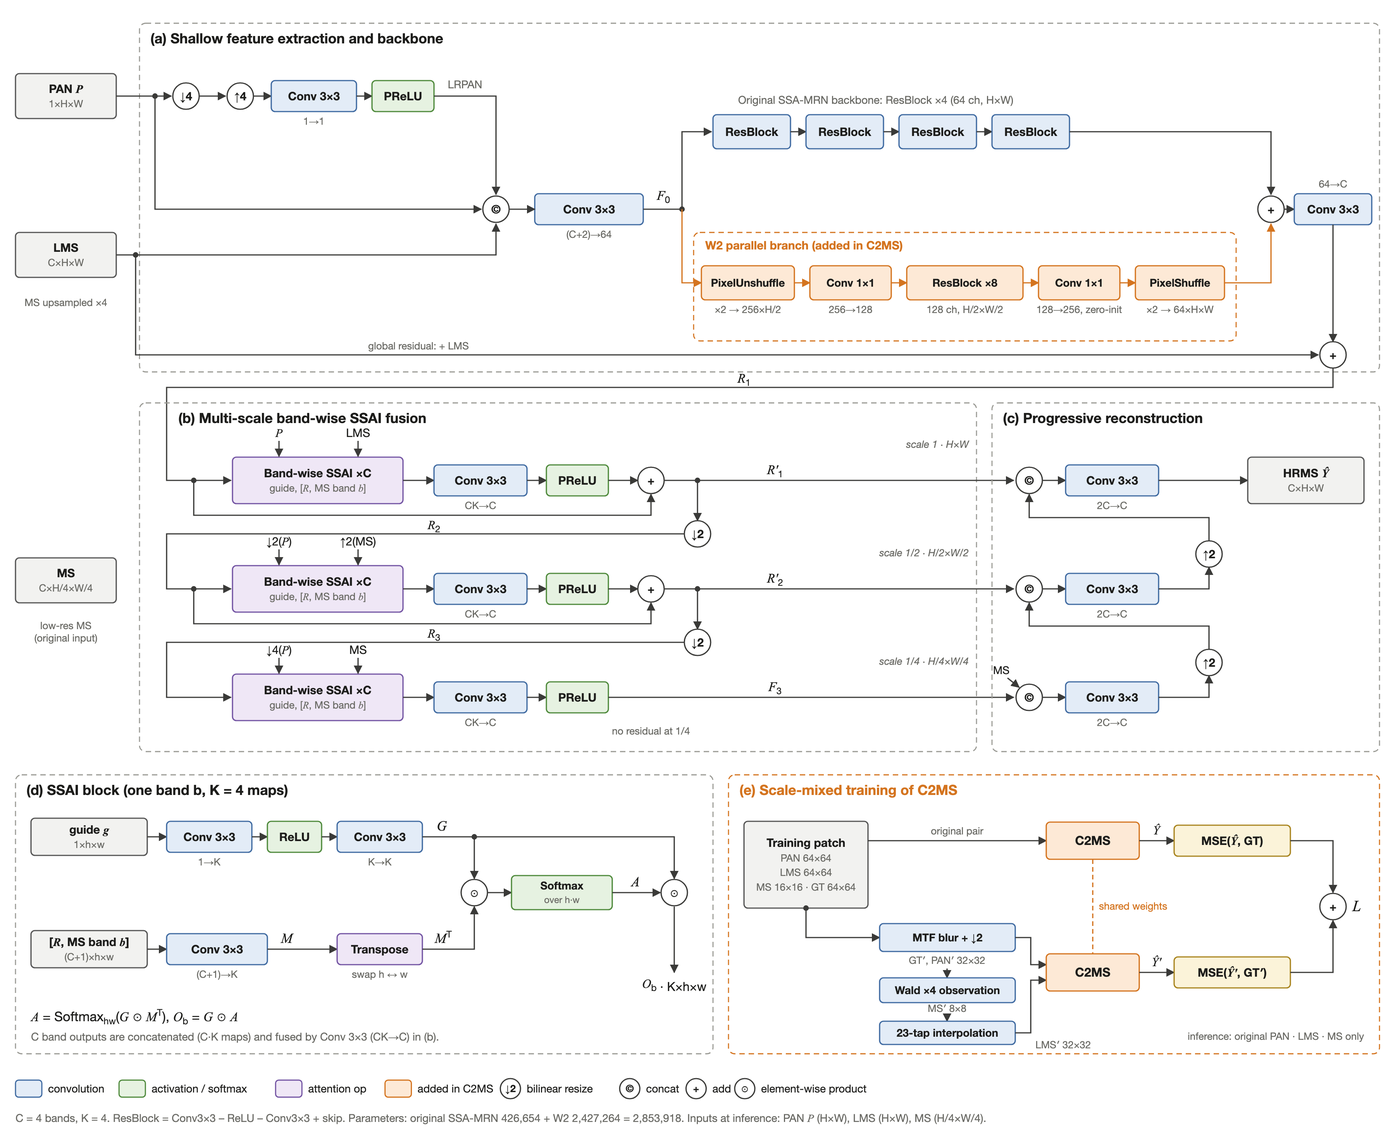
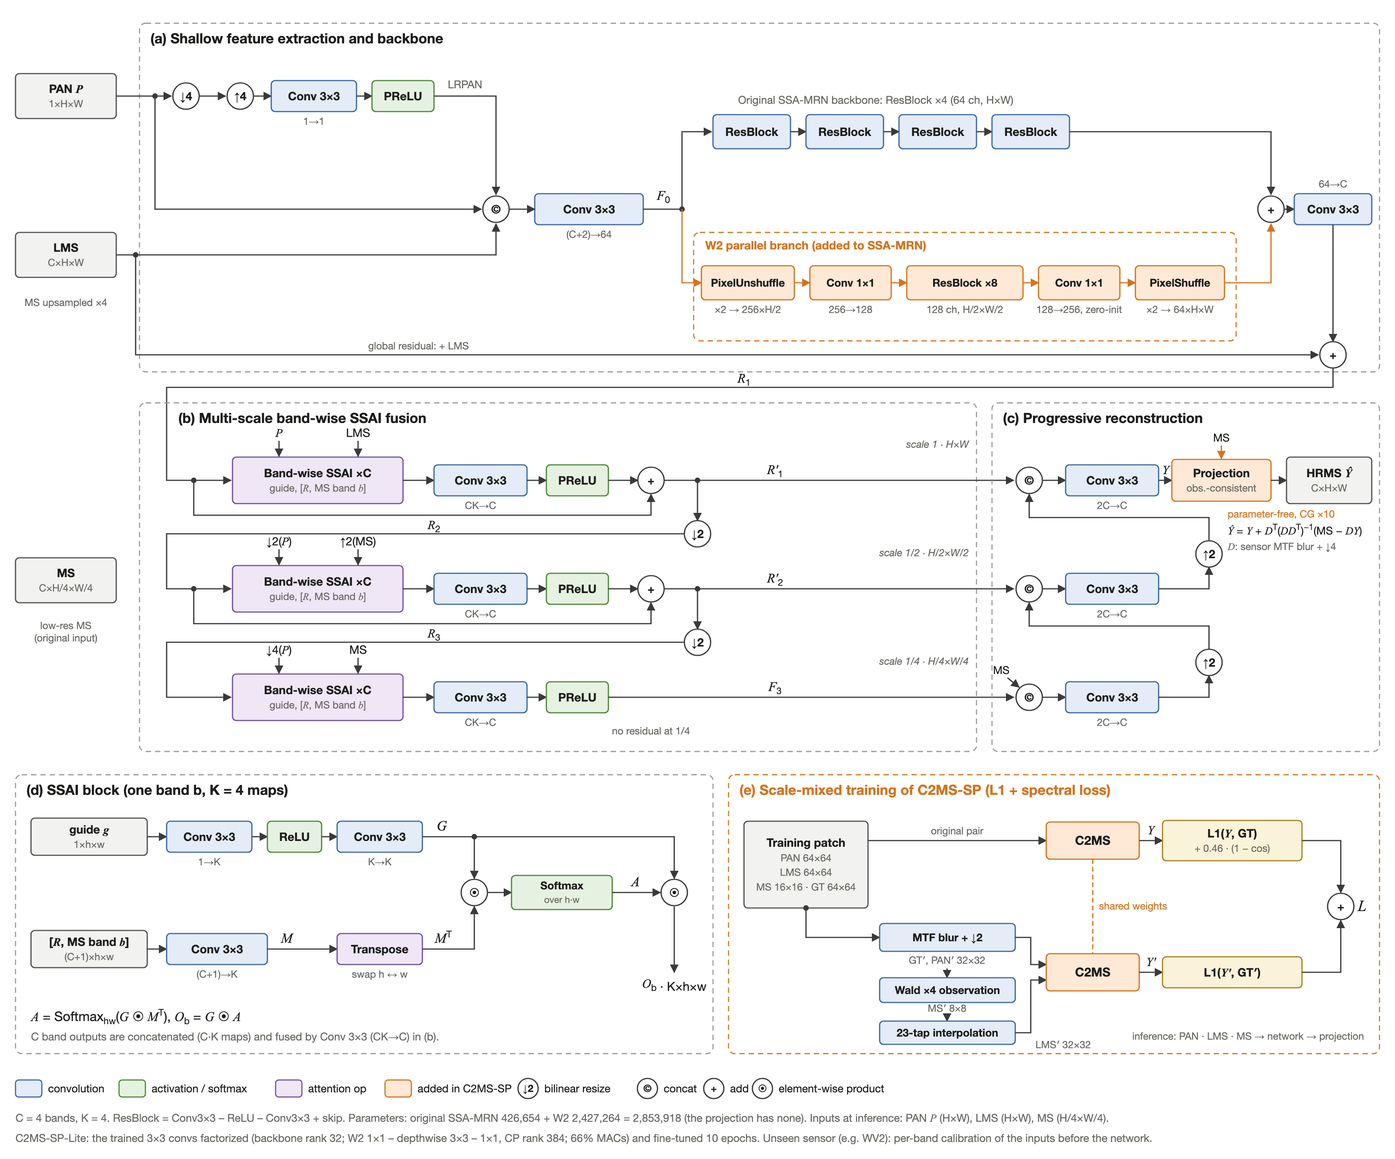
소개 페이지를 기준 모델 C2MS-SP로 갱신
- 기준 모델·주요 수치·구조 설명·발전 과정을 C2MS-SP(경량판 SP-Lite, 미학습 센서 보정 포함) 기준으로 수정
- 구조도와 WV2 비교 그림을 원본·C2MS-SP·C2MS-SP-Lite 기준으로 교체, 결과·비교 표 갱신(Ours 표기)

diff --git a/docs/index.html b/docs/index.html
@@ -4,7 +4,7 @@
 <meta charset="utf-8">
 <meta name="viewport" content="width=device-width, initial-scale=1">
 <title>CtrS — 위성영상 팬샤프닝 연구</title>
-<meta name="description" content="SSA-MRN을 개선한 팬샤프닝 기준 모델 C2MS. 병렬 가지와 축척 혼합 학습으로 QB·GF2·WV3에서 원본보다 높은 성능을 확인하고, 학습하지 않은 센서 WV2에서도 선명도와 색을 더 잘 유지합니다.">
+<meta name="description" content="SSA-MRN을 개선한 팬샤프닝 기준 모델 C2MS-SP. 병렬 가지·축척 혼합 학습·L1·분광 손실·관측 일치 사영으로 QB·GF2·WV3에서 원본보다 높은 성능을 확인하고, 학습하지 않은 센서 WV2에서도 선명도와 색을 유지합니다.">
 <link rel="icon" href="assets/icon.png" type="image/png">
 <link rel="stylesheet" href="https://cdn.jsdelivr.net/gh/orioncactus/pretendard@v1.3.9/dist/web/variable/pretendardvariable-dynamic-subset.min.css">
 <link rel="stylesheet" href="style.css?v=3">
@@ -36,7 +36,7 @@
   <section class="hero">
     <p class="hero-meta">딥러닝 연구 · 위성영상 팬샤프닝 · 동국대학교 종합설계1</p>
     <h1>학습하지 않은 위성 센서에서도 선명도와 색을 유지하는 팬샤프닝 모델</h1>
-    <p class="lead">흑백 고해상도 영상(PAN)과 저해상도 다중분광 영상(MS)을 합쳐 고해상도 컬러 영상을 복원합니다. 오픈소스 모델 SSA-MRN을 재현한 뒤, 구조와 학습 방식을 바꾼 새 기준 모델 <strong>C2MS</strong>로 성능을 개선했습니다.</p>
+    <p class="lead">흑백 고해상도 영상(PAN)과 저해상도 다중분광 영상(MS)을 합쳐 고해상도 컬러 영상을 복원합니다. 오픈소스 모델 SSA-MRN을 재현한 뒤, 구조·학습·추론을 바꾼 기준 모델 <strong>C2MS-SP</strong>와 경량판 <strong>C2MS-SP-Lite</strong>로 성능을 개선했습니다.</p>
     <div class="actions">
       <a class="btn primary" href="https://github.com/BIYONGHIYON/CtrS">GitHub 저장소</a>
       <a class="btn" href="#results">결과 보기</a>
@@ -44,15 +44,15 @@
     <dl class="facts">
       <div><dt>역할</dt><dd>팀장 · 4인</dd></div>
       <div><dt>기간</dt><dd>2026.09 — 현재</dd></div>
-      <div><dt>기준 모델</dt><dd>C2MS (2026.10 채택)</dd></div>
+      <div><dt>기준 모델</dt><dd>C2MS-SP (2026.11 채택)</dd></div>
     </dl>
   </section>
 
   <div class="stats" aria-label="원본 SSA-MRN 대비 주요 결과">
-    <div class="stat"><b>+0.87 dB</b><span>QB RR PSNR · 3시드 평균</span></div>
-    <div class="stat"><b>+2.05 dB</b><span>GF2 RR PSNR · 3시드 평균</span></div>
-    <div class="stat"><b>+1.01 dB</b><span>WV3 RR PSNR · 3시드 평균</span></div>
-    <div class="stat"><b>7.2% → 1.0%</b><span>학습하지 않은 WV2의 색 치우침</span></div>
+    <div class="stat"><b>+0.94 dB</b><span>QB RR PSNR · 3시드 평균</span></div>
+    <div class="stat"><b>+2.24 dB</b><span>GF2 RR PSNR · 3시드 평균</span></div>
+    <div class="stat"><b>+1.14 dB</b><span>WV3 RR PSNR · 3시드 평균</span></div>
+    <div class="stat"><b>7.2% → 0.1%</b><span>학습하지 않은 WV2의 색 치우침</span></div>
   </div>
 
   <section class="section" id="about">
@@ -63,31 +63,37 @@
         <div class="item"><h4>SSA-MRN 재현</h4><p>PAN·LRPAN·LMS에서 특징을 뽑아 전체·절반·1/4 크기에서 밴드별로 융합(SSAI)하고, 작은 크기부터 복원하는 원본 모델을 재현해 비교 기준으로 삼았습니다.</p></div>
         <div class="item"><h4>가설 → 실험 → 판정</h4><p>validation으로 후보를 고르고 실제 test의 RR 지표(PSNR·SAM·ERGAS)로 개선 여부를 판정합니다. 같은 시드의 대조군과 짝지어 비교합니다.</p></div>
         <div class="item"><h4>네 개의 위성 센서</h4><p>QuickBird(QB)·GaoFen-2(GF2)·WorldView-3(WV3)로 학습하고, 학습하지 않은 WorldView-2(WV2)에 적용해 일반화도 확인했습니다.</p></div>
-        <div class="item"><h4>기준 모델 교체 규칙</h4><p>새 후보가 기준 모델이 되려면 3시드 이상에서 개선이 확인되어야 합니다. C2MS도 이 기준을 통과해 채택했습니다.</p></div>
+        <div class="item"><h4>기준 모델 교체 규칙</h4><p>새 후보가 기준 모델이 되려면 3시드 이상에서 개선이 확인되어야 합니다. C2MS(2026.10)와 C2MS-SP(2026.11)도 이 기준을 통과해 차례로 채택했습니다.</p></div>
       </div>
     </div>
   </section>
 
   <section class="section" id="model">
-    <div class="section-head"><h2>기준 모델 C2MS</h2><p>병렬 가지 + 축척 혼합 학습</p></div>
+    <div class="section-head"><h2>기준 모델 C2MS-SP</h2><p>병렬 가지 + 축척 혼합 학습 + L1·분광 손실 + 관측 일치 사영</p></div>
     <div class="section-body">
       <p><strong>입력.</strong> 원본과 같이 고해상도 PAN, 4배 확대한 MS(LMS), 저해상도 MS 세 가지를 받습니다. PAN·LMS·축소 후 재확대한 PAN(LRPAN)에서 초기 특징을 만들고, 전체·1/2·1/4 크기에서 밴드별 SSAI로 PAN의 공간 정보를 주입한 뒤 1/4 크기부터 단계적으로 복원합니다.</p>
-      <p><strong>W2 병렬 가지.</strong> 원본 구조는 그대로 두고, 초기 특징(64채널)에서 갈라져 원본 backbone(ResBlock 4개)과 나란히 흐르는 가지를 더했습니다. 해상도를 절반으로 접고(PixelUnshuffle) 128채널 잔차 블록 8개를 거친 뒤 다시 펼쳐(PixelShuffle) backbone 출력에 더합니다. 마지막 1×1 Conv를 0으로 초기화해 학습 시작 시 출력은 원본과 같습니다. 파라미터는 원본 426,654개에서 2,853,918개로 늘었습니다.</p>
-      <p><strong>축척 혼합 학습.</strong> 병렬 가지만 붙였을 때는 RR PSNR이 크게 올랐지만, 한 단계 더 거친 시험(RR2)에서 성능이 무너졌습니다. 원인을 진단해 보니 축척에 따라 세부를 넣는 세기가 맞지 않았습니다. 그래서 같은 패치로 만든 <strong>2배 거친 학습 쌍</strong>을 원래 학습 쌍과 함께 학습해 이 약점을 없앴습니다. 추론 입력은 원본과 같습니다.</p>
-      <p><strong>채택.</strong> 2026-10-21 QB 3시드(42·43·44) 모두 개선을 확인해 팀 결정으로 채택했고, 다음 날 GF2·WV3·WV2에서도 3시드 모두 원본 대비 개선을 확인했습니다.</p>
+      <p><strong>W2 병렬 가지.</strong> 원본 구조는 그대로 두고, 초기 특징(64채널)에서 갈라져 원본 backbone(ResBlock 4개)과 나란히 흐르는 가지를 더했습니다. 해상도를 절반으로 접고(PixelUnshuffle) 128채널 잔차 블록 8개를 거친 뒤 다시 펼쳐(PixelShuffle) backbone 출력에 더합니다. 파라미터는 원본 426,654개에서 2,853,918개로 늘었습니다.</p>
+      <p><strong>축척 혼합 학습.</strong> 병렬 가지만 붙였을 때는 한 단계 더 거친 시험(RR2)에서 성능이 무너졌습니다. 원인은 축척에 따라 세부를 넣는 세기가 맞지 않는 것이었고, 같은 패치로 만든 <strong>2배 거친 학습 쌍</strong>을 함께 학습해 이 약점을 없앴습니다. 여기까지가 이전 기준 모델 C2MS입니다.</p>
+      <p><strong>L1·분광 손실.</strong> 손실을 제곱 오차에서 <strong>L1 + 분광 손실</strong>(픽셀별 색 방향 차이)로 바꿔 색(SAM)을 더 정확하게 학습했습니다.</p>
+      <p><strong>관측 일치 사영.</strong> 출력을 다시 흐리게 줄였을 때 입력 MS와 정확히 같아지도록, 그 조건을 만족하는 가장 가까운 영상으로 옮기는 단계를 추론 뒤에 붙였습니다. 파라미터가 없고 공액 기울기법 10회면 충분합니다. 답을 검산해서 어긋난 부분만 고치는 것과 같습니다.</p>
+      <p><strong>경량판 C2MS-SP-Lite.</strong> 학습된 C2MS-SP 가중치의 3×3 합성곱을 작은 조각(backbone 랭크 32, W2 가지 1×1 · depthwise 3×3 · 1×1)으로 분해하고 10에폭만 다시 다듬었습니다. 연산 66%·파라미터 68%로 C2MS-SP와 0.01-0.03 dB 차이입니다.</p>
+      <p><strong>학습하지 않은 센서.</strong> 위성마다 밴드별 밝기 기준이 달라, 처음 보는 센서에서는 세부를 덜 넣고 흐려졌습니다. 입력 밴드의 밝기 비율을 학습 센서에 맞추는 <strong>밴드별 센서 보정</strong>으로 재학습 없이 해결했습니다. 학습한 센서에는 쓰지 않습니다.</p>
+      <p><strong>채택.</strong> 2026-11-14 QB·GF2·WV3 모두 3시드(42·43·44)에서 이전 기준 C2MS보다 RR 세 지표가 좋아(PSNR +0.07·+0.19·+0.13 dB) 기준 모델로 채택했습니다.</p>
       <figure class="structure-figure">
-        <a href="assets/c2ms-structure.png?v=2" target="_blank" rel="noopener"><img class="frame" src="assets/c2ms-structure.png?v=2" alt="C2MS 전체 구조도: (a) PAN·LMS·LRPAN 초기 특징과 원본 ResBlock×4 backbone, 그 옆의 W2 병렬 가지(PixelUnshuffle·1×1 Conv·ResBlock×8·1×1 Conv·PixelShuffle), (b) 전체·1/2·1/4 크기의 밴드별 SSAI 융합, (c) 1/4 크기부터의 단계적 복원, (d) SSAI 블록 내부, (e) 2배 거친 학습 쌍을 섞은 축척 혼합 학습" width="3600" height="2940" loading="lazy"></a>
-        <figcaption>C2MS 구조. 주황색이 원본 SSA-MRN에 더한 W2 병렬 가지와 학습 방법입니다. 이미지를 누르면 원본 크기로 볼 수 있습니다.</figcaption>
+        <a href="assets/c2ms-structure.png?v=3" target="_blank" rel="noopener"><img class="frame" src="assets/c2ms-structure.png?v=3" alt="C2MS-SP 전체 구조도: (a) PAN·LMS·LRPAN 초기 특징과 원본 ResBlock×4 backbone, 그 옆의 W2 병렬 가지, (b) 전체·1/2·1/4 크기의 밴드별 SSAI 융합, (c) 단계적 복원과 출력 뒤 관측 일치 사영, (d) SSAI 블록 내부, (e) L1·분광 손실을 쓰는 축척 혼합 학습" width="3600" height="2992" loading="lazy"></a>
+        <figcaption>C2MS-SP 구조. 주황색이 원본 SSA-MRN에 더한 부분(W2 병렬 가지, 관측 일치 사영, 학습 방법)입니다. 이미지를 누르면 원본 크기로 볼 수 있습니다.</figcaption>
       </figure>
 
-      <h3>C2MS까지의 과정</h3>
+      <h3>C2MS-SP까지의 과정</h3>
       <ol class="history">
         <li><span class="n">단계 0</span><div><b>원본 SSA-MRN 재현</b><span>K=4를 연구 기본값으로 확정하고, 이후 모든 비교의 출발점으로 삼았습니다.</span></div></li>
         <li><span class="n">단계 1</span><div><b>저해상도 병렬 가지 W2 추가</b><span>RR PSNR +0.72 dB로 큰 이득이었지만 더 거친 시험(RR2)에서 성능이 나빠졌습니다.</span></div></li>
-        <li><span class="n">단계 2</span><div><b>3시드 재현과 보정기 시도</b><span>이득과 RR2 약점이 모두 재현됐고, 관측 오차 보정기로는 고쳐지지 않았습니다.</span></div></li>
-        <li><span class="n">단계 3</span><div><b>원인 진단</b><span>학습 없이 W2 출력 세기를 줄여 보며, 축척에 맞지 않는 세부 주입 세기가 원인임을 찾았습니다.</span></div></li>
-        <li class="on"><span class="n">단계 4</span><div><b>축척 혼합 학습 → C2MS 채택</b><span>RR2 약점을 없애고 원본 대비 QB RR +0.873 dB, 3시드 모두 개선했습니다.</span></div></li>
-        <li class="on"><span class="n">단계 5</span><div><b>다른 센서로 확장</b><span>GF2·WV3 학습과 학습하지 않은 WV2 적용에서도 원본 대비 이득을 확인했습니다.</span></div></li>
+        <li><span class="n">단계 2</span><div><b>원인 진단</b><span>학습 없이 W2 출력 세기를 줄여 보며, 축척에 맞지 않는 세부 주입 세기가 원인임을 찾았습니다.</span></div></li>
+        <li><span class="n">단계 3</span><div><b>축척 혼합 학습 → C2MS 채택 (2026.10)</b><span>RR2 약점을 없애고 QB·GF2·WV3 모두 원본 대비 3시드 개선했습니다.</span></div></li>
+        <li><span class="n">단계 4</span><div><b>L1·분광 손실</b><span>색(SAM)은 좋아졌지만 처음 보는 센서(WV2)에서 결과가 흐려지는 문제가 보였습니다.</span></div></li>
+        <li class="on"><span class="n">단계 5</span><div><b>관측 일치 사영 → C2MS-SP 채택 (2026.11)</b><span>세 센서 모두 C2MS 대비 3시드 개선했고, 사영은 10회 반복이면 충분했습니다.</span></div></li>
+        <li class="on"><span class="n">단계 6</span><div><b>밴드별 센서 보정</b><span>WV2 흐림의 원인(위성 간 밴드 밝기 차이)을 찾아 재학습 없이 PSNR을 약 2 dB 회복했습니다.</span></div></li>
+        <li class="on"><span class="n">단계 7</span><div><b>분해 + 짧은 미세조정 → C2MS-SP-Lite</b><span>연산 66%로 C2MS-SP와 거의 같은 수치를 냈습니다.</span></div></li>
       </ol>
     </div>
   </section>
@@ -95,39 +101,43 @@
   <section class="section" id="results">
     <div class="section-head"><h2>결과</h2><p>test 20장 · 3시드 평균</p></div>
     <div class="section-body">
-      <p class="intro">같은 시드(42·43·44)의 원본 SSA-MRN과 짝지은 평균 차이입니다. 네 데이터셋 모두 20장 전부에서 RR PSNR이 원본보다 높았습니다.</p>
+      <p class="intro">같은 시드(42·43·44)의 원본 SSA-MRN과 짝지은 평균 차이입니다. 학습한 세 데이터셋 모두 두 모델이 세 지표에서 원본보다 좋았고, 시드별로도 모두 원본보다 높았습니다.</p>
       <div class="table-wrap">
         <table>
-          <thead><tr><th>데이터셋</th><th class="num">RR PSNR</th><th class="num">RR SAM</th><th class="num">RR ERGAS</th><th class="num">판정</th></tr></thead>
+          <thead><tr><th>데이터셋</th><th>모델</th><th class="num">RR PSNR</th><th class="num">RR SAM</th><th class="num">RR ERGAS</th><th class="num">판정</th></tr></thead>
           <tbody>
-            <tr><td>QB</td><td class="num good">+0.873 dB</td><td class="num">−0.365°</td><td class="num">−0.413</td><td class="num">개선</td></tr>
-            <tr><td>GF2</td><td class="num good">+2.045 dB</td><td class="num">−0.163°</td><td class="num">−0.188</td><td class="num">개선</td></tr>
-            <tr><td>WV3</td><td class="num good">+1.007 dB</td><td class="num">−0.419°</td><td class="num">−0.313</td><td class="num">개선</td></tr>
-            <tr><td>WV2 전이 (학습하지 않은 센서)</td><td class="num good">+0.828 dB</td><td class="num">−0.399°</td><td class="num">−0.426</td><td class="num">참고</td></tr>
+            <tr><td>QB</td><td>C2MS-SP</td><td class="num good">+0.944 dB</td><td class="num">−0.467°</td><td class="num">−0.439</td><td class="num">개선</td></tr>
+            <tr><td></td><td>C2MS-SP-Lite</td><td class="num good">+0.924 dB</td><td class="num">−0.466°</td><td class="num">−0.431</td><td class="num">개선</td></tr>
+            <tr><td>GF2</td><td>C2MS-SP</td><td class="num good">+2.235 dB</td><td class="num">−0.190°</td><td class="num">−0.204</td><td class="num">개선</td></tr>
+            <tr><td></td><td>C2MS-SP-Lite</td><td class="num good">+2.202 dB</td><td class="num">−0.187°</td><td class="num">−0.201</td><td class="num">개선</td></tr>
+            <tr><td>WV3</td><td>C2MS-SP</td><td class="num good">+1.137 dB</td><td class="num">−0.509°</td><td class="num">−0.330</td><td class="num">개선</td></tr>
+            <tr><td></td><td>C2MS-SP-Lite</td><td class="num good">+1.126 dB</td><td class="num">−0.504°</td><td class="num">−0.328</td><td class="num">개선</td></tr>
+            <tr><td>WV2 전이 (학습하지 않은 센서)</td><td>C2MS-SP</td><td class="num good">+2.950 dB</td><td class="num">−1.190°</td><td class="num">−1.382</td><td class="num">참고</td></tr>
+            <tr><td></td><td>C2MS-SP-Lite</td><td class="num good">+2.960 dB</td><td class="num">−1.188°</td><td class="num">−1.385</td><td class="num">참고</td></tr>
           </tbody>
         </table>
       </div>
-      <p class="note">PSNR은 높을수록, SAM·ERGAS는 낮을수록 좋습니다. WV2는 WV3로 학습한 모델을 그대로 적용한 결과로, 판정에 쓰지 않는 참고 수치입니다.</p>
+      <p class="note">PSNR은 높을수록, SAM·ERGAS는 낮을수록 좋습니다. WV2는 WV3로 학습한 모델을 적용한 결과로 판정에 쓰지 않는 참고 수치이며, C2MS-SP·SP-Lite에는 밴드별 센서 보정을 함께 적용했습니다(원본은 발표된 방식 그대로).</p>
 
       <h3>처음 보는 센서에서 차이가 커집니다</h3>
-      <p>학습한 센서에서는 두 모델 모두 정답에 가까워 눈으로는 차이가 잘 드러나지 않습니다. 하지만 학습하지 않은 WV2에 적용하면 원본은 흐려지고 파랑 밴드가 밝게 나와 전체가 회보라색으로 보이는 반면, C2MS는 선명도와 색을 더 잘 유지합니다.</p>
+      <p>학습한 센서에서는 세 모델 모두 정답에 가까워 눈으로는 차이가 잘 드러나지 않습니다. 하지만 학습하지 않은 WV2에 적용하면 원본은 흐려지고 파랑 밴드가 밝게 나와 전체가 회보라색으로 보이는 반면, C2MS-SP·SP-Lite는 선명도와 색을 유지합니다.</p>
       <figure>
-        <a class="compare-img" href="assets/wv2-comparison.png" target="_blank" rel="noopener" aria-label="WV2 전이 결과 비교 이미지 원본 크기로 보기">
-          <img src="assets/wv2-comparison.png" alt="학습하지 않은 WV2 센서 장면 0: 원본 SSA-MRN, C2MS, 정답과 오차 지도 비교" width="1592" height="320" loading="lazy">
+        <a class="compare-img" href="assets/wv2-comparison.png?v=2" target="_blank" rel="noopener" aria-label="WV2 전이 결과 비교 이미지 원본 크기로 보기">
+          <img src="assets/wv2-comparison.png?v=2" alt="학습하지 않은 WV2 센서 장면 0: 원본 SSA-MRN, C2MS-SP, C2MS-SP-Lite, 정답과 오차 지도 비교" width="2120" height="320" loading="lazy">
         </a>
-        <figcaption>WV3로 학습한 모델을 WV2 장면 0에 적용한 결과(seed 42). 장면 PSNR 27.80 → 28.69 dB. 확대 영역은 C2MS의 개선이 가장 큰 64×64 영역입니다. 이미지를 누르면 원본 크기로 볼 수 있습니다.</figcaption>
+        <figcaption>WV3로 학습한 모델을 WV2 장면 0에 적용한 결과(seed 42). 장면 PSNR 원본 27.80 → C2MS-SP 30.90 · C2MS-SP-Lite 30.92 dB. 확대 영역은 C2MS-SP의 개선이 가장 큰 64×64 영역입니다. 이미지를 누르면 원본 크기로 볼 수 있습니다.</figcaption>
       </figure>
       <div class="table-wrap" style="margin-top:24px">
         <table>
-          <thead><tr><th>WV2 test · 3시드 평균</th><th class="num">원본</th><th class="num">C2MS</th></tr></thead>
+          <thead><tr><th>WV2 test · 3시드 평균</th><th class="num">원본</th><th class="num">C2MS-SP</th><th class="num">C2MS-SP-Lite</th></tr></thead>
           <tbody>
-            <tr><td>선명도 (출력 고주파 세기 ÷ 정답, 1이 정답)</td><td class="num">0.34</td><td class="num good">0.47</td></tr>
-            <tr><td>넣은 세부와 실제 세부의 상관</td><td class="num">0.70</td><td class="num good">0.74</td></tr>
-            <tr><td>가장 큰 밴드의 평균 밝기 치우침</td><td class="num">7.2%</td><td class="num good">1.0%</td></tr>
+            <tr><td>선명도 (출력 고주파 세기 ÷ 정답, 1이 정답)</td><td class="num">0.33</td><td class="num good">0.52</td><td class="num good">0.52</td></tr>
+            <tr><td>넣은 세부와 실제 세부의 상관</td><td class="num">0.70</td><td class="num good">0.84</td><td class="num good">0.84</td></tr>
+            <tr><td>가장 큰 밴드의 평균 밝기 치우침</td><td class="num">7.2%</td><td class="num good">0.1%</td><td class="num good">0.1%</td></tr>
           </tbody>
         </table>
       </div>
-      <p class="note">세 시드 모두 C2MS가 더 선명했습니다. 시드별 가장 큰 색 치우침은 원본 4.0-11.4%, C2MS 1.7-3.0%입니다.</p>
+      <p class="note">세 시드 모두 C2MS-SP·SP-Lite가 원본보다 선명하고 PSNR이 높았습니다(C2MS-SP +2.77 · +2.80 · +3.28 dB). 시드별 가장 큰 색 치우침은 원본 4.1-11.4%, C2MS-SP 0.1-0.2%입니다. 장면을 직접 골라 확대해 보려면 <a href="https://biyonghiyon.github.io/CtrS-viewer/">결과 비교 사이트</a>를 이용하세요.</p>
 
       <h3>다른 팬샤프닝 모델과 비교 (QB RR test 20장)</h3>
       <div class="table-wrap">
@@ -135,7 +145,8 @@
           <thead><tr><th>모델</th><th class="num">PSNR ↑</th><th class="num">SAM ↓</th><th class="num">ERGAS ↓</th><th class="num">Q4 ↑</th></tr></thead>
           <tbody>
             <tr><td>DCINN</td><td class="num">38.430</td><td class="num">4.220</td><td class="num">3.570</td><td class="num">—</td></tr>
-            <tr class="hl"><td>C2MS (현재 기준, 3시드 평균)</td><td class="num">38.302</td><td class="num">4.576</td><td class="num">3.712</td><td class="num">0.934</td></tr>
+            <tr class="hl"><td>C2MS-SP (Ours, 현재 기준, 3시드 평균)</td><td class="num">38.373</td><td class="num">4.474</td><td class="num">3.685</td><td class="num">0.935</td></tr>
+            <tr class="hl"><td>C2MS-SP-Lite (Ours, 경량판, 3시드 평균)</td><td class="num">38.353</td><td class="num">4.476</td><td class="num">3.693</td><td class="num">0.935</td></tr>
             <tr><td>HFIN</td><td class="num">38.247</td><td class="num">4.542</td><td class="num">3.813</td><td class="num">0.934</td></tr>
             <tr><td>U2Net</td><td class="num">38.065</td><td class="num">4.642</td><td class="num">3.987</td><td class="num">0.931</td></tr>
             <tr><td>SSA-MRN 원 논문</td><td class="num">37.665</td><td class="num">4.848</td><td class="num">4.073</td><td class="num">0.924</td></tr>
@@ -143,7 +154,7 @@
           </tbody>
         </table>
       </div>
-      <p class="note">C2MS와 원본 재현은 공식 DLPan MATLAB 코드로 재평가한 값이고, 다른 모델은 각 논문이 보고한 값입니다. 논문마다 데이터 분할·구현이 달라 공인 순위가 아닌 참고용입니다. 전체 표와 출처는 <a href="https://github.com/BIYONGHIYON/CtrS#compare">저장소 README</a>에 있습니다.</p>
+      <p class="note">Ours와 원본 재현은 저장소 평가 코드(DLPan 정의, 공식 MATLAB 재평가와 일치 확인)로 잰 값이고, 다른 모델은 각 논문이 보고한 값입니다. 논문마다 데이터 분할·구현이 달라 공인 순위가 아닌 참고용입니다. 전체 표와 출처는 <a href="https://github.com/BIYONGHIYON/CtrS#compare">저장소 README</a>에 있습니다.</p>
     </div>
   </section>
 
